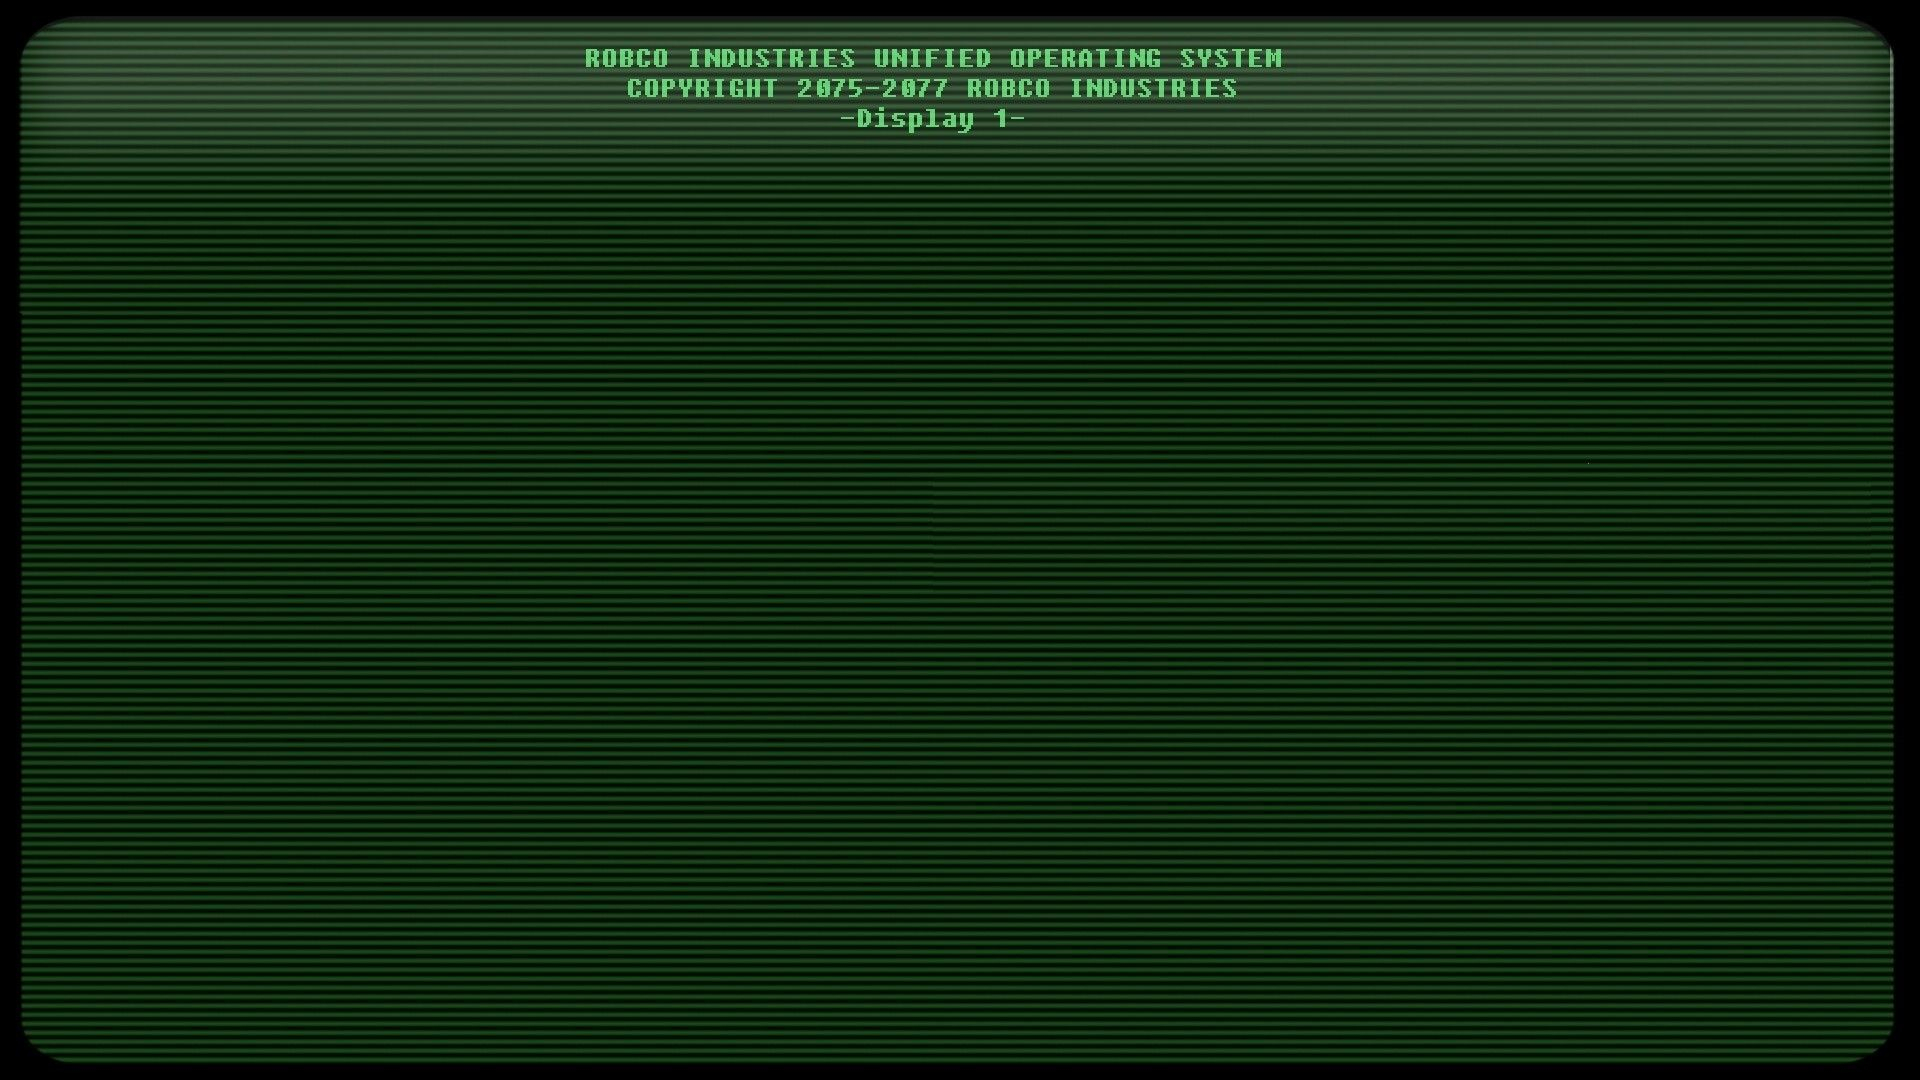
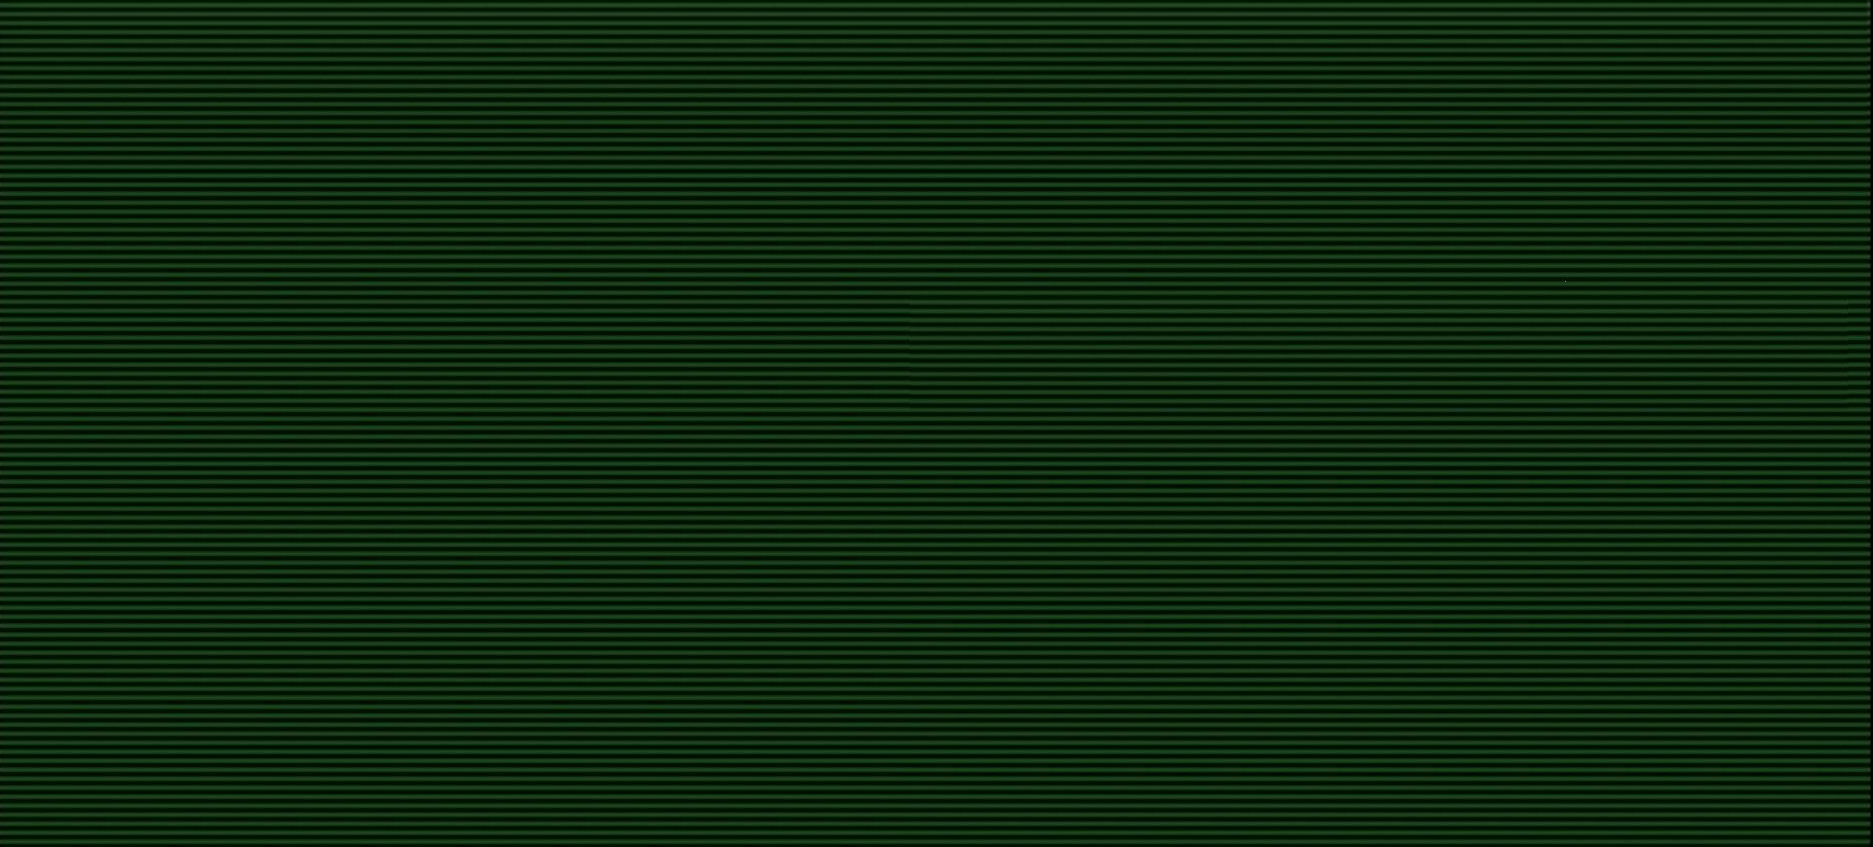
improve terminal layout

diff --git a/src/layouts/terminal/terminal.css b/src/layouts/terminal/terminal.css
@@ -3,14 +3,33 @@
   src: url("./terminal.ttf");
 }
 
+:root {
+  --screen-boder-width: 1rem;
+  --screen-vertical-padding: 2rem;
+}
+
+html {
+  overflow: hidden;
+}
+
 body {
   margin: 0;
   background-color: black;
+}
+
+.screen {
   background-image: url("./terminal.jpg");
-  background-repeat: no-repeat;
   background-attachment: fixed;
   background-position: center;
   background-size: contain;
+  height: calc(100vh - 2 * var(--screen-boder-width) - 2 * var(--screen-vertical-padding));
+  width: calc(100vw - 2 * var(--screen-boder-width));
+  border-radius: 5rem;
+  border: var(--screen-boder-width) solid black;
+  display: grid;
+  grid-template-rows: min-content auto;
+  padding-top: var(--screen-vertical-padding);
+  padding-bottom: var(--screen-vertical-padding);
 }
 
 .screen-flicker {
@@ -23,16 +42,20 @@ body {
   pointer-events: none;
 }
 
+.header {
+  text-align: center;
+}
+
+.header h2 {
+  margin-top: 1rem;
+}
+
 article {
+  margin-top: 2rem;
   width: 100%;
   max-width: 80vw;
   height: 100%;
-  max-height: 70vh;
   overflow-y: scroll;
-  position: absolute;
-  top: 50%;
-  left: 50%;
-  transform: translate(-50%, -50%);
   margin: auto;
   z-index: 2;
 }
